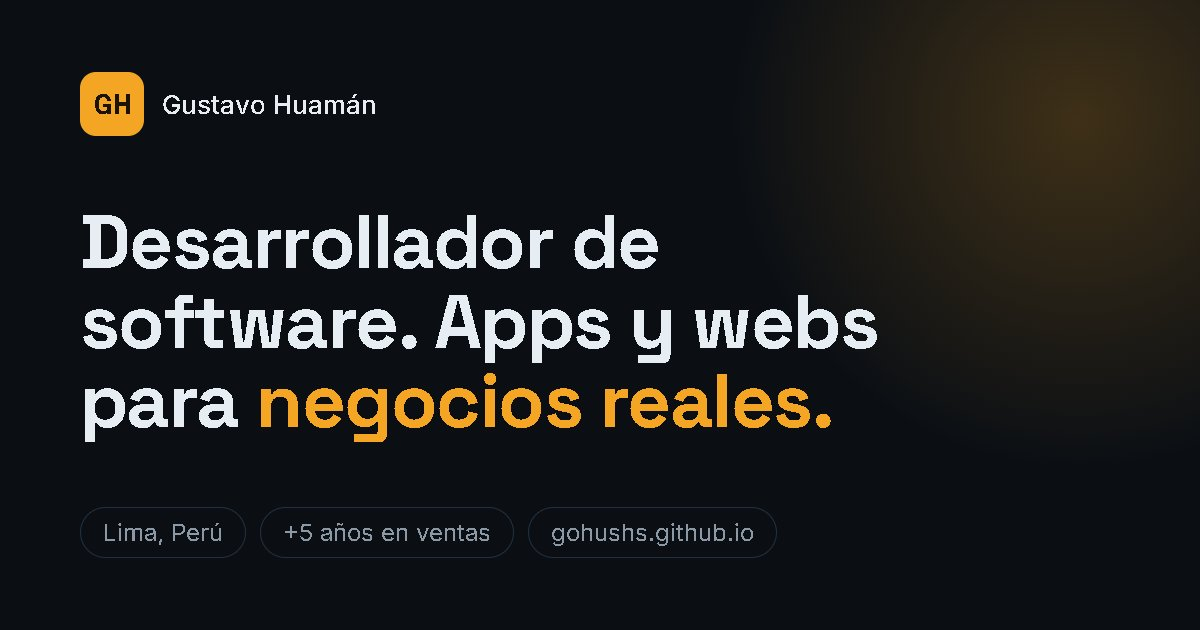
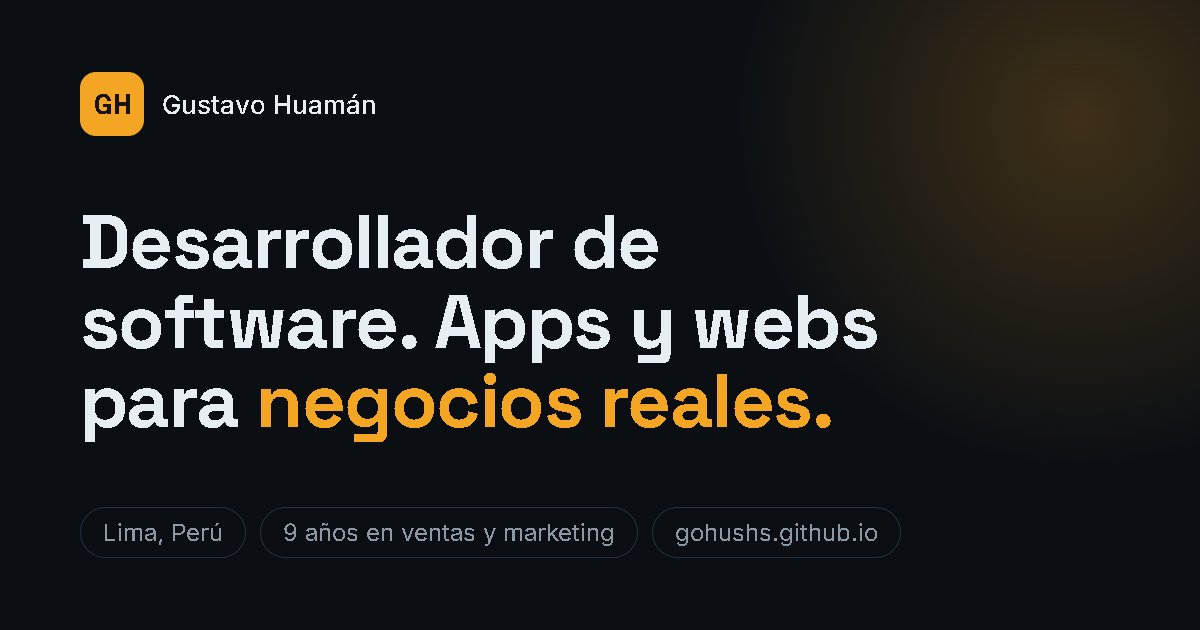
Agrega foto de perfil y actualiza experiencia y habilidades
Foto retocada en blanco y negro, 9 años en ventas, marketing y diseño
gráfico, DJ, VS Code y apps Android. Nueva imagen para compartir.

Changed region(s): [[0.2467, 0.8143, 0.74, 0.8746]]

diff --git a/index.html b/index.html
@@ -4,7 +4,7 @@
   <meta charset="utf-8">
   <meta name="viewport" content="width=device-width, initial-scale=1">
   <title>Gustavo Huamán · Desarrollador de software en Lima</title>
-  <meta name="description" content="Desarrollador de software en Lima, Perú, con más de 5 años en ventas y background en marketing. Construyo apps y webs para negocios reales.">
+  <meta name="description" content="Desarrollador de software en Lima, Perú, con 9 años en ventas, marketing y diseño gráfico. Construyo apps y webs para negocios reales.">
   <meta name="author" content="Gustavo Huamán">
   <meta name="theme-color" content="#0B0F14">
   <link rel="canonical" href="https://gohushs.github.io/">
@@ -74,13 +74,13 @@
       <div class="wrap hero__in">
         <p class="eyebrow reveal"><span class="dot"></span> Lima, Perú · Disponible para proyectos</p>
         <h1 class="hero__title reveal">Construyo apps y webs que <span class="accent">venden y ordenan</span> negocios reales.</h1>
-        <p class="hero__lead reveal">Soy Gustavo Huamán, desarrollador de software en formación. Vengo de más de 5 años en ventas y marketing, así que programo pensando en el cliente y en el resultado.</p>
+        <p class="hero__lead reveal">Soy Gustavo Huamán, desarrollador de software en formación. Vengo de 9 años en ventas, marketing y diseño gráfico, así que programo pensando en el cliente, en cómo se ve y en el resultado.</p>
         <div class="hero__actions reveal">
           <a class="btn btn--primary" href="#proyectos">Ver proyectos</a>
           <a class="btn btn--ghost" href="#contacto">Contáctame</a>
         </div>
         <ul class="hero__stats reveal" aria-label="En resumen">
-          <li><strong>5+</strong><span>años en ventas</span></li>
+          <li><strong>9</strong><span>años en ventas y marketing</span></li>
           <li><strong>3</strong><span>proyectos en producción</span></li>
           <li><strong>2</strong><span>negocios en Lima</span></li>
         </ul>
@@ -96,13 +96,14 @@
         <div class="about__text">
           <p class="kicker reveal">Sobre mí</p>
           <h2 class="reveal">Del mostrador al código</h2>
-          <p class="reveal">Pasé más de cinco años vendiendo y haciendo marketing. Ahí aprendí lo que de verdad necesita un negocio: que el cliente encuentre rápido lo que busca, que el equipo no pierda tiempo y que los números estén claros.</p>
+          <p class="reveal">Llevo 9 años vendiendo, haciendo marketing y diseñando piezas gráficas para marcas. Ahí aprendí lo que de verdad necesita un negocio: que el cliente encuentre rápido lo que busca, que el equipo no pierda tiempo y que los números estén claros.</p>
           <p class="reveal">Hoy uso eso para construir software. He hecho la web corporativa y la app de asistencia de una empresa de seguridad, la marca y la tienda web de mi propio negocio de accesorios para camionetas, y el sistema de almacén y ventas con el que ese negocio opera cada día.</p>
           <ul class="about__list reveal">
             <li>Entiendo la venta, no solo el código.</li>
             <li>Entrego cosas que se usan en el día a día, no maquetas.</li>
             <li>Diseño para el celular primero, que es donde están tus clientes.</li>
           </ul>
+          <p class="about__extra reveal">Fuera del código también soy <strong>DJ</strong>: leer a la gente y mantener la energía arriba se parece bastante a vender.</p>
         </div>
       </div>
     </section>
@@ -180,13 +181,19 @@
           <div class="skills__group reveal">
             <h3>Desarrollo</h3>
             <ul class="chips">
-              <li>HTML</li><li>CSS</li><li>JavaScript</li><li>React</li><li>PHP</li><li>MySQL / MariaDB</li><li>PWA</li><li>Git y GitHub</li><li>Diseño responsive</li>
+              <li>HTML</li><li>CSS</li><li>JavaScript</li><li>React</li><li>PHP</li><li>MySQL / MariaDB</li><li>PWA</li><li>Apps Android</li><li>VS Code</li><li>Git y GitHub</li><li>Diseño responsive</li>
             </ul>
           </div>
           <div class="skills__group reveal">
             <h3>Negocio</h3>
             <ul class="chips">
-              <li>Ventas consultivas</li><li>Marketing digital</li><li>SEO local</li><li>Branding</li><li>Photoshop</li><li>Illustrator</li><li>Atención por WhatsApp</li>
+              <li>Ventas consultivas</li><li>Marketing digital</li><li>SEO local</li><li>Atención por WhatsApp</li>
+            </ul>
+          </div>
+          <div class="skills__group reveal">
+            <h3>Diseño y creatividad</h3>
+            <ul class="chips">
+              <li>Diseño gráfico</li><li>Branding</li><li>Photoshop</li><li>Illustrator</li><li>Piezas para redes</li><li>DJ</li>
             </ul>
           </div>
         </div>
@@ -240,7 +247,7 @@
       <button class="gallery__close" type="button" data-close aria-label="Cerrar">✕</button>
     </div>
     <figure class="gallery__stage">
-      <img id="galleryImg" src="" alt="">
+      <img id="galleryImg" src="assets/img/proyectos/protection-police-web.webp" alt="Captura del proyecto" loading="lazy" decoding="async">
       <figcaption id="galleryCap"></figcaption>
     </figure>
     <div class="gallery__nav">

diff --git a/css/styles.css b/css/styles.css
@@ -120,6 +120,8 @@ ul { margin: 0; padding: 0; list-style: none; }
 .about__text > p:not(.kicker) { color: var(--muted); }
 .about__list { margin-top: 1.5rem; display: grid; gap: .75rem; }
 .about__list li { position: relative; padding-left: 1.75rem; }
+.about__extra { margin-top: 1.5rem; padding: 1rem 1.25rem; border-left: 3px solid var(--accent); background: var(--surface); border-radius: 0 12px 12px 0; color: var(--muted); }
+.about__extra strong { color: var(--text); }
 .about__list li::before { content: ""; position: absolute; left: 0; top: .6em; width: 10px; height: 10px; border-radius: 3px; background: var(--accent); }
 
 /* Proyectos */
@@ -209,6 +211,7 @@ ul { margin: 0; padding: 0; list-style: none; }
   .hero__actions .btn { flex: 0 0 auto; }
   .cards { grid-template-columns: repeat(2, 1fr); }
   .skills { grid-template-columns: repeat(2, 1fr); }
+  .skills__group:last-child { grid-column: 1 / -1; }
   .contact__grid { grid-template-columns: repeat(2, 1fr); }
 }
 
@@ -226,6 +229,8 @@ ul { margin: 0; padding: 0; list-style: none; }
   .section { padding: 112px 0; }
   .about { grid-template-columns: 360px 1fr; align-items: center; gap: 4rem; }
   .cards { grid-template-columns: repeat(3, 1fr); }
+  .skills { grid-template-columns: repeat(3, 1fr); }
+  .skills__group:last-child { grid-column: auto; }
   .contact__grid { grid-template-columns: repeat(4, 1fr); }
   .contact__item { flex-direction: column; align-items: flex-start; }
 }
